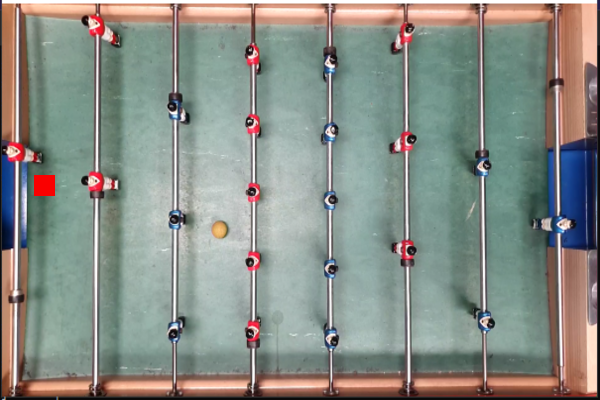
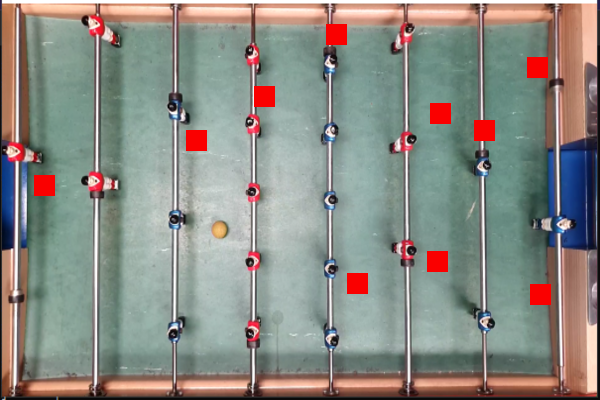
Final changes

diff --git a/add.php b/add.php
@@ -1,0 +1,23 @@
+<?php
+include('../connexion.php');
+
+$idbut=196;
+for ($id = 1; $id <= 8; $id++){
+    $randtir = rand(2, 10);
+    for ($i = 1; $i <= $randtir; $i++){
+
+        $randvitesse=rand(100, 2000)/1000;
+        $randx = rand(150, 550);
+        $randy = rand(25, 375);
+        $randx = strval($randx);
+        $randy = strval($randy);
+        $randpos = $randx . ", " . $randy;
+        $sql = 'Insert into but_from_python values ('.$idbut .',"' . $randvitesse.'", "'. $randpos .'")';
+        $resultat = mysqli_query($conn, $sql);
+        $sql2 = 'Insert into but values ('. $idbut .', '. $id .', "00:00:00", "2", "'. $randvitesse .'", "'. $randpos .'")';
+        $resultat = mysqli_query($conn, $sql2);
+        $idbut = $idbut + 1;
+        echo "C EST DE LA TRICHE !!! <br>";
+    }
+}
+?>

diff --git a/playerstat.py b/playerstat.py
@@ -19,16 +19,18 @@ tab = []
 with connection.cursor() as cursor:
     sql ="SELECT position FROM `but` WHERE markedBy="+sys.argv[1]
     cursor.execute(sql)
-    pos = cursor.fetchone()
-    pos = pos['position'].split(", ")
-    tabx = pos[0].split(".")
+    row = cursor.fetchall()
+    for ligne in row :
+        pos = ligne['position'].split(", ")
+        tabx = pos[0].split(".")
 
-    x= int(tabx[0])
-    taby = pos[1].split(".")
-    y= int(taby[0]) 
-    tabxy = [x,y]
+        x= int(tabx[0])
+        taby = pos[1].split(".")
+        y= int(taby[0]) 
+        tabxy = [x,y]
 
-    tab.append(tabxy)
+        tab.append(tabxy)
+
 
 img = Image.open("./image/ballebaby.png")
 

diff --git a/test.php b/test.php
@@ -1,0 +1,17 @@
+<?php
+
+$idbut = 1;
+$id = 1;
+$randvitesse=rand(100, 2000)/1000;
+        $randx = rand(150, 550);
+        $randy = rand(25, 375);
+        $randx = strval($randx);
+        $randy = strval($randy);
+        $randpos = $randx . ", " . $randy;
+$sql = 'Insert into but_from_python values ('.$idbut .',"' . $randvitesse.'", "'. $randpos .'")';
+$sql2 = 'Insert into but values ('. $idbut .', '. $id .', "00:00:00", "2", "'. $randvitesse .'", "'. $randpos .'")';
+
+echo $sql;
+echo "<br><br>";
+echo $sql2;
+?>
